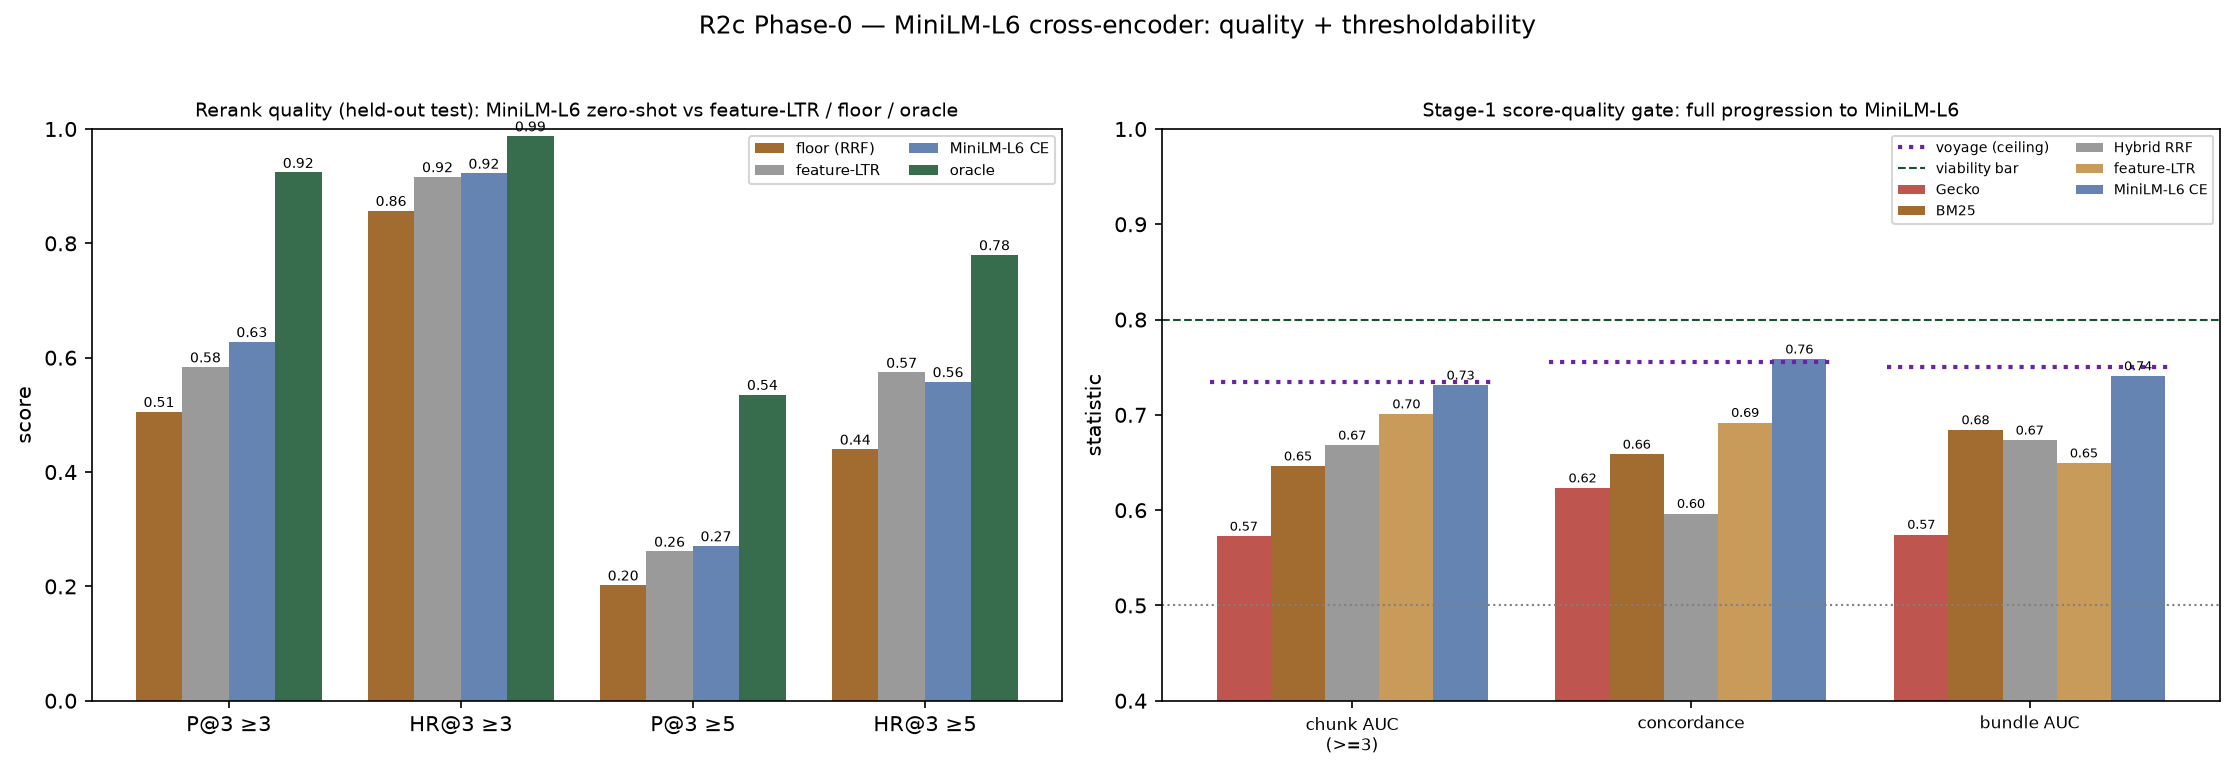
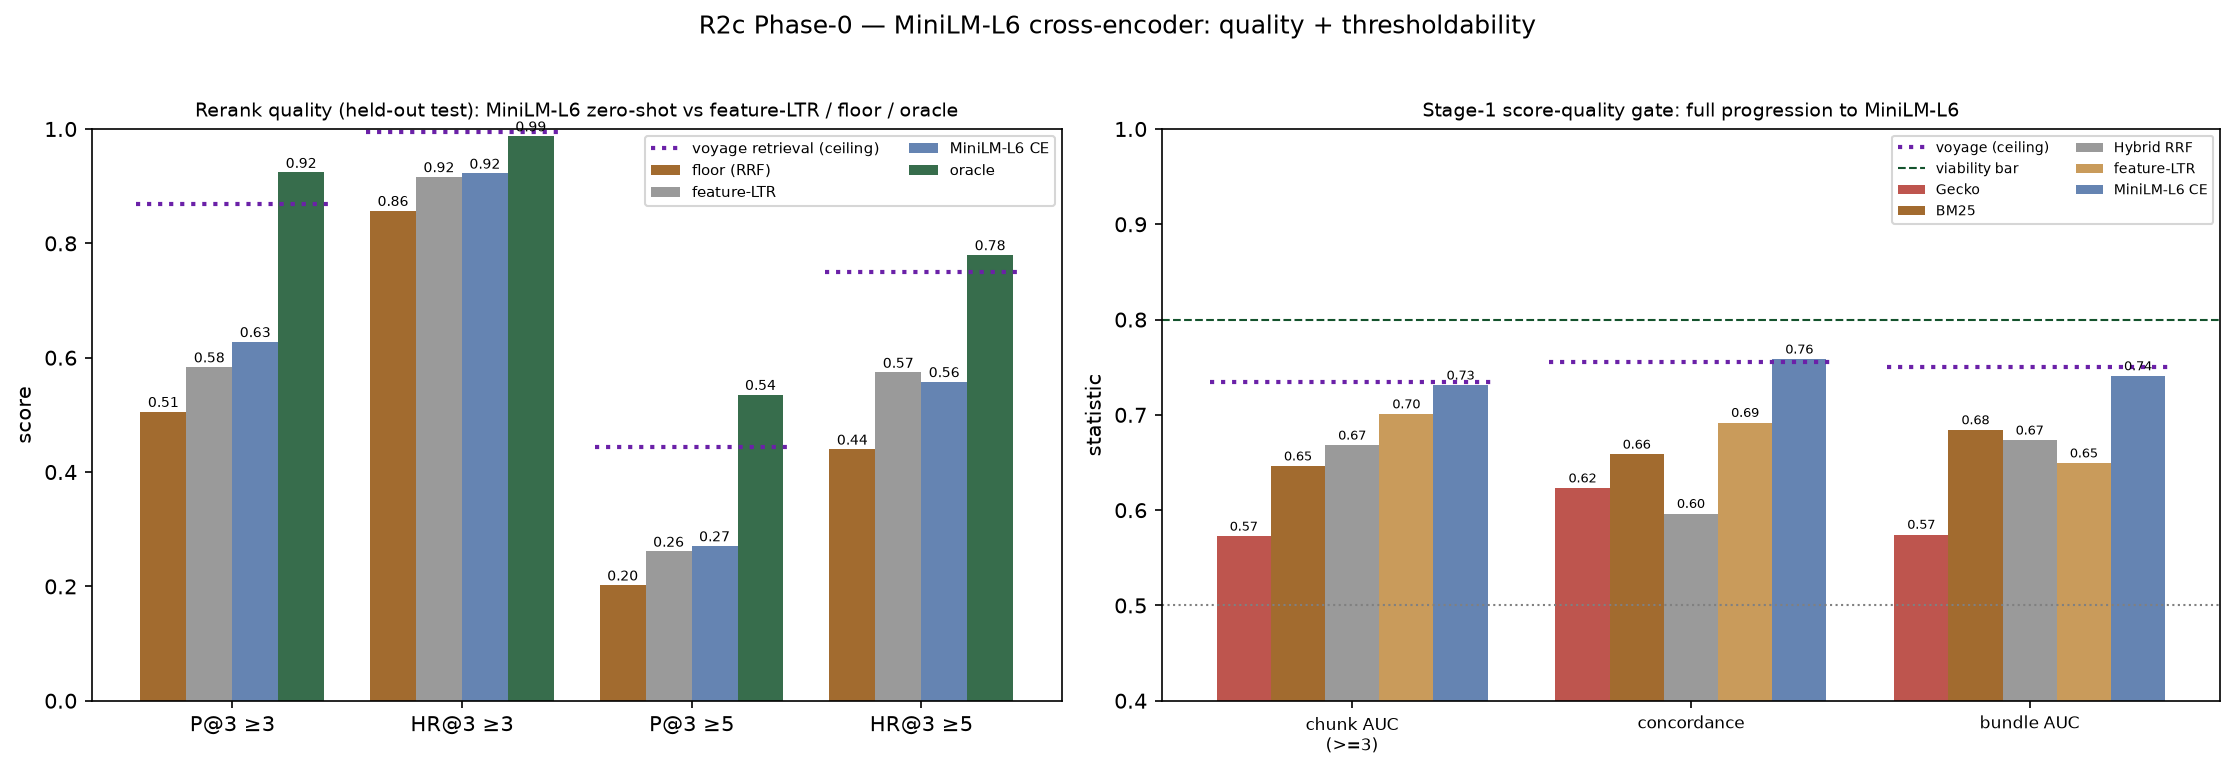
fig(r2c-phase0): add voyage retrieval ceiling to the quality panel
voyage's own top-3 on the same test queries (lenient P@3 0.870/HR 0.994, strict
0.445/0.749) as a dashed ceiling. Surfaces the key point: the oracle (perfect
rerank of our hybrid top-20) matches/exceeds voyage on all four metrics — a
good reranker on the pool we already retrieve can rival an undeployable
top-tier retriever. judgments loaded via parquet (no datasets dep).

diff --git a/configs/config-v0.2.0/reports/r2c-rerank/r2c-phase0-minilm-spike-20260613.html b/configs/config-v0.2.0/reports/r2c-rerank/r2c-phase0-minilm-spike-20260613.html
@@ -94,9 +94,10 @@ anywhere in that range, which the on-phone benchmark (layer 4) will pin down.
 <figure>
   <img src="fig_minilm_spike.png" alt="MiniLM-L6 quality and Stage-1 gate">
   <figcaption>Left: rerank quality on the held-out test split (n=491) — MiniLM-L6
-  zero-shot vs floor / feature-LTR / oracle. Right: the Stage-1 score-quality
-  gate across every score measured in R1–R2, ending at MiniLM-L6; dashed = 0.80
-  viability bar, purple dotted = voyage ceiling.</figcaption>
+  zero-shot vs floor / feature-LTR / oracle, with the voyage retrieval ceiling
+  (purple dotted, its own top-3 on the same test queries). Right: the Stage-1
+  score-quality gate across every score measured in R1–R2, ending at MiniLM-L6;
+  dashed = 0.80 viability bar, purple dotted = voyage ceiling.</figcaption>
 </figure>
 <table>
   <tr><th>Metric</th><th class="num">floor (RRF)</th><th class="num">feature-LTR</th>
@@ -127,6 +128,12 @@ anywhere in that range, which the on-phone benchmark (layer 4) will pin down.
   <li><strong>And this is before fine-tuning.</strong> Zero-shot on MS-MARCO
       (web) domain, not yet trained on our 230k OBGYN pairs — the fine-tune step
       should push quality (and thresholdability) further.</li>
+  <li><strong>The oracle matches or exceeds the voyage retrieval ceiling.</strong>
+      Perfect reranking of our hybrid top-20 (oracle) reaches P@3 0.924 / 0.536
+      (lenient/strict) vs voyage's own top-3 at 0.870 / 0.445 — so a good-enough
+      reranker on the pool we already retrieve can rival an API-only top-tier
+      retriever we can't deploy. MiniLM-L6 zero-shot (0.628 / 0.271) sits well
+      below both, leaving clear room for fine-tuning and the bigger candidates.</li>
 </ul>
 
 <h2>Decision</h2>

diff --git a/retrieval_eval/plot_minilm_spike.py b/retrieval_eval/plot_minilm_spike.py
@@ -22,12 +22,42 @@ def main():
     ap.add_argument("--report-dir", default="configs/config-v0.2.0/reports/r2c-rerank")
     ap.add_argument("--hybrid-gate",
                     default="configs/config-v0.2.0/results/retrieval_eval/r2-hybrid/hybrid_gate.json")
+    ap.add_argument("--split-dir",
+                    default="configs/config-v0.2.0/results/retrieval_eval/r2c-rerank")
+    ap.add_argument("--hf-repo", default="nmrenyi/mamaretrieval")
+    ap.add_argument("--revision", default="v0.2.0")
     args = ap.parse_args()
 
     rd = Path(args.report_dir)
     spike = json.load(open(rd / "minilm_spike.json"))
     ltr = json.load(open(rd / "ltr_results.json"))
     hg = json.load(open(args.hybrid_gate))
+
+    # voyage (API-only retriever) top-3 P@3/HR@3 on the SAME test queries — a
+    # retrieval ceiling reference for the quality panel. Not a reranker; shown
+    # because oracle (perfect rerank of our pool) and voyage are different
+    # ceilings worth seeing together.
+    voyage_quality = None
+    try:
+        import pandas as pd
+        from huggingface_hub import hf_hub_download
+        split_of = json.load(open(Path(args.split_dir) / "split.json"))
+        test_qs = {q for q, s in split_of.items() if s == "test"}
+        rk = pd.read_parquet(hf_hub_download(args.hf_repo, "data/rankings.parquet",
+                                             repo_type="dataset", revision=args.revision))
+        vo = rk[(rk["retriever"] == "voyage") & (rk["rank"] <= 3) & (rk["query_id"].isin(test_qs))]
+        jd = pd.read_parquet(hf_hub_download(args.hf_repo, "data/judgments.parquet",
+                                             repo_type="dataset", revision=args.revision))
+        grades = {(r.query_id, r.chunk_id): int(r.score) for r in jd.itertuples()}
+        voyage_quality = {}
+        for ck, cut in (("lenient_ge3", 3), ("strict_ge5", 5)):
+            p = hr = n = 0
+            for qid, grp in vo.groupby("query_id"):
+                rel = sum(1 for c in grp["chunk_id"] if grades.get((qid, c), 0) >= cut)
+                p += min(rel, 3) / 3.0; hr += int(rel > 0); n += 1
+            voyage_quality[ck] = {"p_at_3": p / n, "hr_at_3": hr / n}
+    except Exception as e:
+        print(f"voyage quality skipped: {e}")
 
     import matplotlib
     matplotlib.use("Agg")
@@ -54,6 +84,11 @@ def main():
         axq.bar([i + offs for i in qx], vals, w, label=name, color=color, alpha=0.85)
         for i, v in enumerate(vals):
             axq.text(i + offs, v + 0.008, f"{v:.2f}", ha="center", fontsize=6.5)
+    if voyage_quality:
+        for i, (ck, st, _) in enumerate(panels):
+            v = voyage_quality[ck][st]
+            axq.hlines(v, i - 0.42, i + 0.42, color="#6b21a8", ls=":", lw=2,
+                       label="voyage retrieval (ceiling)" if i == 0 else None)
     axq.set_xticks(list(qx)); axq.set_xticklabels([t for _, _, t in panels])
     axq.set_ylim(0, 1.0); axq.set_ylabel("score")
     axq.set_title("Rerank quality (held-out test): MiniLM-L6 zero-shot vs "
